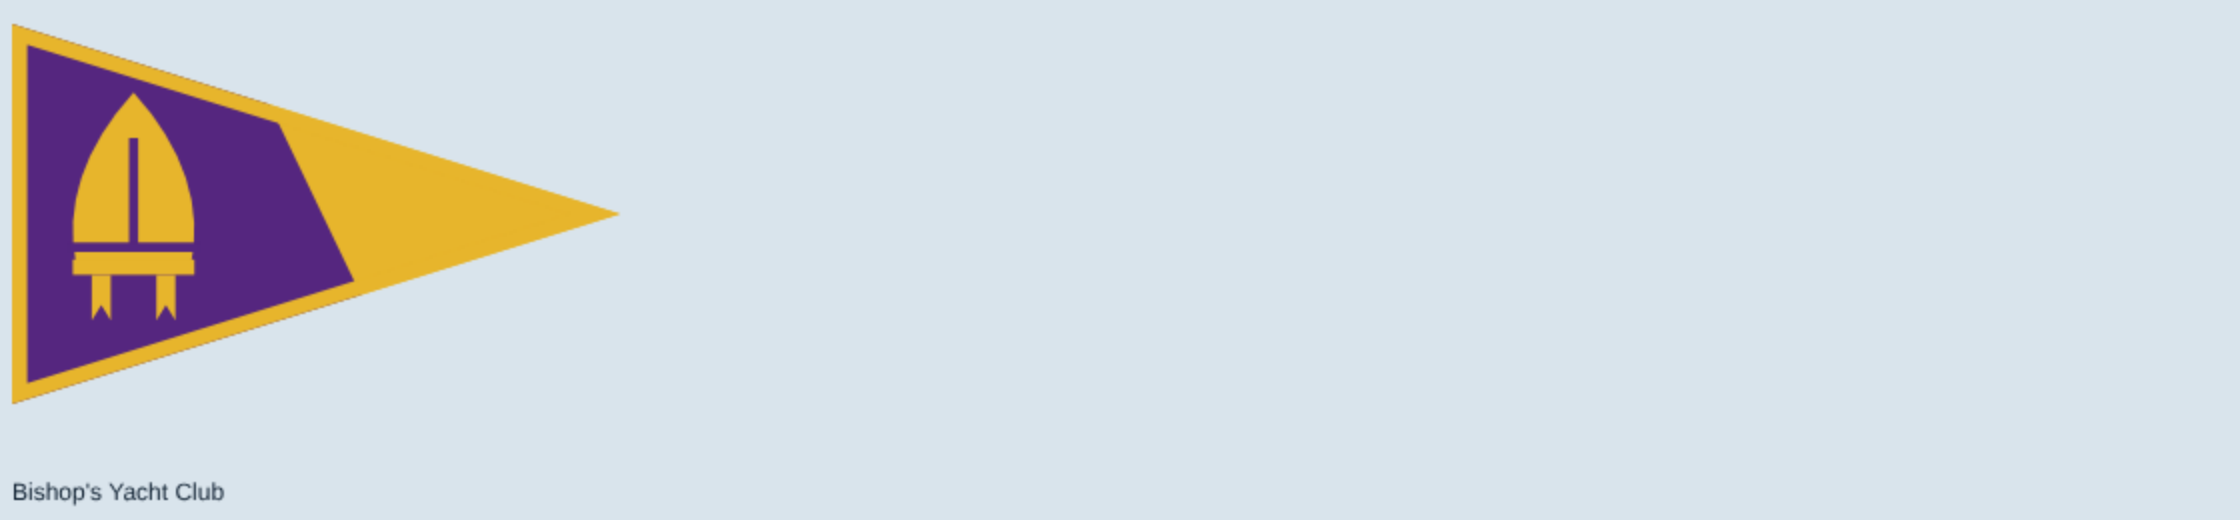
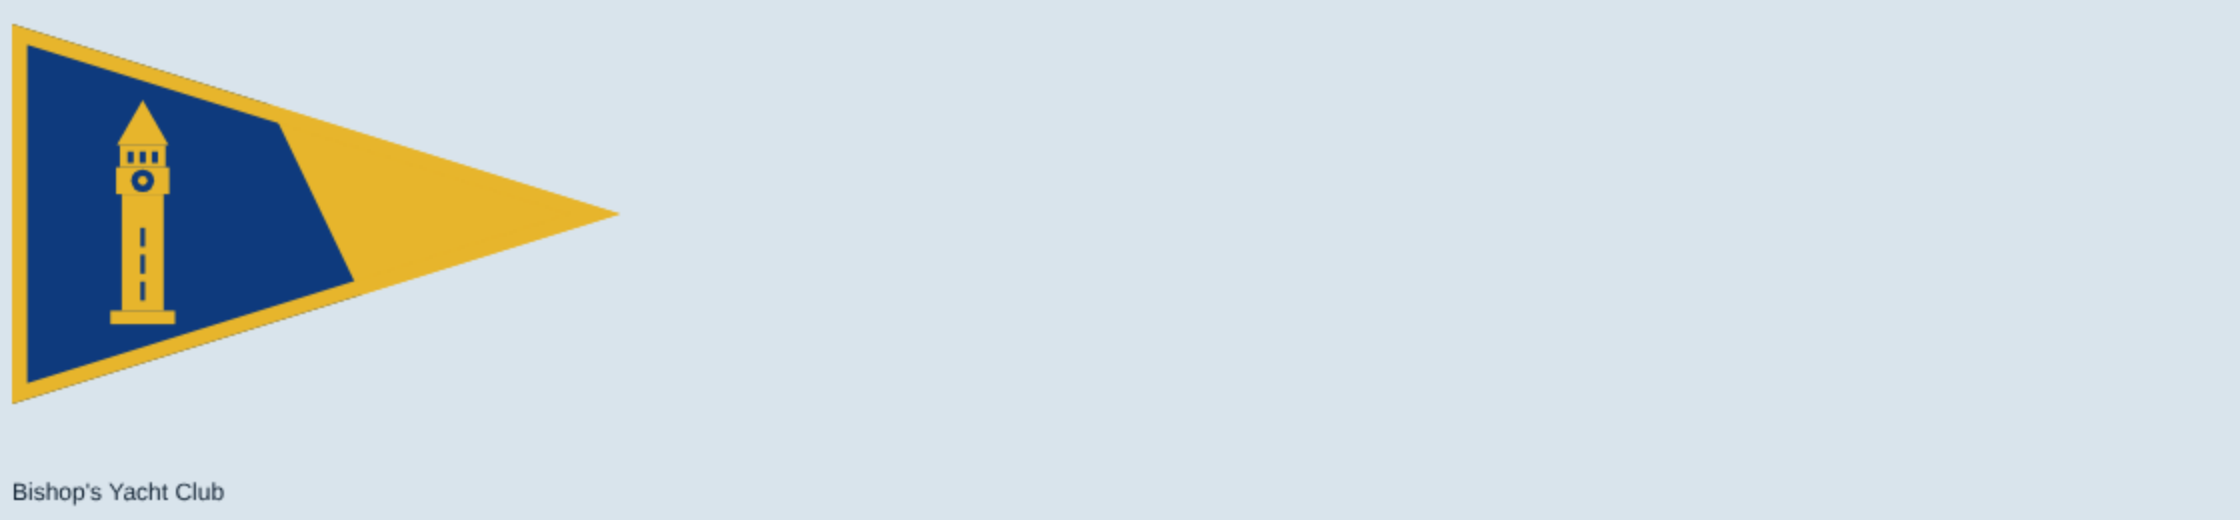
Burgees: Bishop's in Berkeley's blue and gold, with the Campanile (Sather Tower) in place of the mitre
Claude-Session: https://claude.ai/code/session_012Uu5QjYRsEpBxuz7xgHWhs

Changed region(s): [[0.0, 0.0923, 0.1562, 0.7385]]

diff --git a/src/render/burgeeArt.ts b/src/render/burgeeArt.ts
@@ -89,14 +89,15 @@ export const PARODY_BURGEES: Burgee[] = [
   // ---- East Bay
   { id: 'ryc', shape: 'pennant', ratio: 1.5, // DIY: brick red, black and white; one kiln chimney
     draw: (g, W, H) => { fill(g, W, H, '#b03a2a'); rect(g, WHITE, W * 0.5, 0, W * 0.14, H); rect(g, BLACK, W * 0.11, H * 0.34, W * 0.1, H * 0.34); poly(g, BLACK, [W * 0.09, H * 0.34], [W * 0.23, H * 0.34], [W * 0.21, H * 0.27], [W * 0.11, H * 0.27]); } },
-  { id: 'byc', shape: 'pennant', ratio: 1.6, // classic with a wink (1929): purple and gold; one bishop's mitre on the purple, the fly tip gold
-    draw: (g, W, H) => { const PUR = '#55267f', X = W * 0.2;
-      fill(g, W, H, GOLD); poly(g, PUR, [0, 0], [W * 0.36, 0], [W * 0.66, H], [0, H]); // (purple on the hoist side, gold on the fly side, divided on the diagonal: the bishop moves that way)
-      g.fillStyle = GOLD; g.beginPath(); g.moveTo(X - H * 0.15, H * 0.64); g.quadraticCurveTo(X - H * 0.2, H * 0.4, X, H * 0.18); g.quadraticCurveTo(X + H * 0.2, H * 0.4, X + H * 0.15, H * 0.64); g.closePath(); g.fill(); // the mitre
-      rect(g, PUR, X - H * 0.012, H * 0.3, H * 0.024, H * 0.3); // its band down the middle
-      rect(g, PUR, X - H * 0.17, H * 0.575, H * 0.34, H * 0.025); // the line above the base
-      rect(g, GOLD, X - H * 0.16, H * 0.62, H * 0.32, H * 0.04); // the base
-      for (const s of [-1, 1]) poly(g, GOLD, [X + s * H * 0.06, H * 0.66], [X + s * H * 0.11, H * 0.66], [X + s * H * 0.11, H * 0.78], [X + s * H * 0.085, H * 0.74], [X + s * H * 0.06, H * 0.78]); // the two ribbons hanging
+  { id: 'byc', shape: 'pennant', ratio: 1.6, // Berkeley's own blue and gold, a gold fimbriation, one gold Campanile (Sather Tower) on the blue, the fly tip gold, divided on the diagonal (the bishop's move)
+    draw: (g, W, H) => { const BLU = '#0e3a7d', X = W * 0.215, yb = H * 0.79, Th = H * 0.59, y = (t: number) => yb - t * Th;
+      fill(g, W, H, GOLD); poly(g, BLU, [0, 0], [W * 0.36, 0], [W * 0.66, H], [0, H]);
+      rect(g, GOLD, X - H * 0.085, y(0.06), H * 0.17, y(0) - y(0.06)); // the plinth
+      rect(g, GOLD, X - H * 0.055, y(0.58), H * 0.11, y(0.06) - y(0.58)); // the shaft
+      for (const t of [0.15, 0.27, 0.39]) rect(g, BLU, X - H * 0.006, y(t + 0.04), H * 0.012, H * 0.05); // its tall narrow windows
+      rect(g, GOLD, X - H * 0.07, y(0.7), H * 0.14, y(0.58) - y(0.7)); dot(g, BLU, X, y(0.64), H * 0.03); dot(g, GOLD, X, y(0.64), H * 0.012); // the clock stage and its clock
+      rect(g, GOLD, X - H * 0.06, y(0.8), H * 0.12, y(0.7) - y(0.8)); for (const a of [-1, 0, 1]) { rect(g, BLU, X + a * H * 0.032 - H * 0.008, y(0.77), H * 0.016, H * 0.03); } // the belfry and its arches
+      poly(g, GOLD, [X - H * 0.068, y(0.8)], [X, y(1)], [X + H * 0.068, y(0.8)]); // the pyramid cap
       border(g, W, H, 'pennant', GOLD, 0.04); } },
   { id: 'csc', shape: 'pennant', ratio: 1.5, // modern co-op: bright green and yellow, one rising sun
     draw: (g, W, H) => { fill(g, W, H, '#2fa04a'); rect(g, '#f6d21a', 0, H * 0.7, W, H * 0.3); dot(g, '#f6d21a', W * 0.2, H * 0.46, H * 0.2); } },
